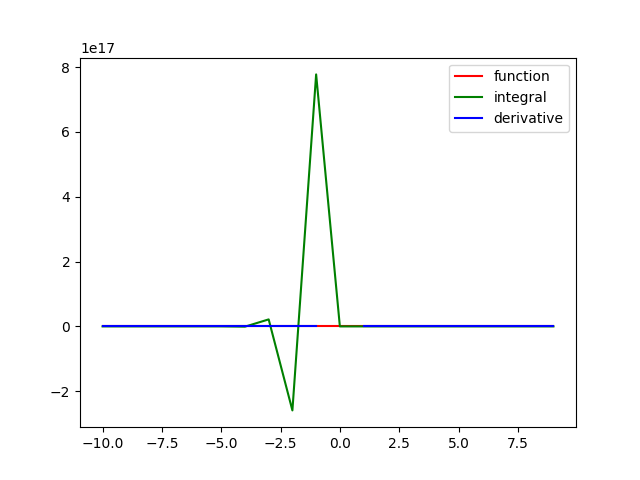
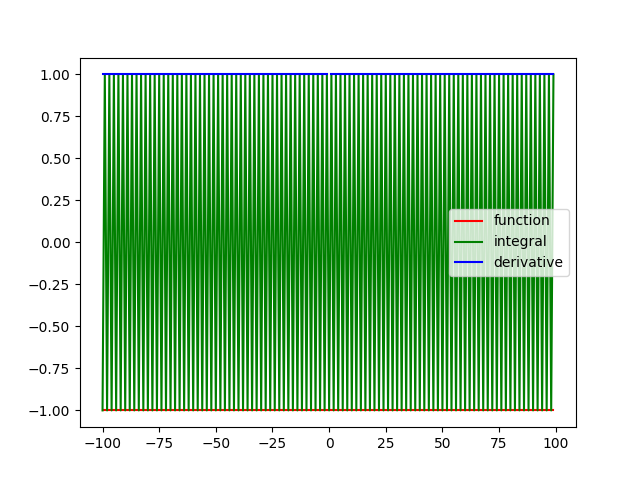
renamed spinboxes, fixed slider_h and spinbox_h value

diff --git a/graphs/desktop/main.py b/graphs/desktop/main.py
@@ -85,7 +85,7 @@ class MainWindow(QMainWindow):
         self.slider_c.setValue(int(self.function_params.c * 10))
         self.slider_a.setValue(int(self.function_params.a * 10))
         self.slider_b.setValue(int(self.function_params.b * 10))
-        self.slider_h.setValue(int(self.function_params.h * 100))
+        self.slider_h.setValue(int(self.function_params.h * 110))
 
         self.power_function_radio_button.toggled.connect(self.draw_graph)
         self.exponential_function_radio_button.toggled.connect(self.draw_graph)
@@ -101,25 +101,25 @@ class MainWindow(QMainWindow):
         self.slider_b.valueChanged.connect(lambda: self.change_slider('b', self.slider_b.value()))
         self.slider_h.valueChanged.connect(lambda: self.change_slider('h', self.slider_h.value()))
 
-        self.n_spin_box.valueChanged.connect(lambda: self.change_spin_box('n', self.n_spin_box.value()))
-        self.c_spin_box.valueChanged.connect(lambda: self.change_spin_box('c', self.c_spin_box.value()))
-        self.a_spin_box.valueChanged.connect(lambda: self.change_spin_box('a', self.a_spin_box.value()))
-        self.b_spin_box.valueChanged.connect(lambda: self.change_spin_box('b', self.b_spin_box.value()))
-        self.h_spin_box.valueChanged.connect(lambda: self.change_spin_box('h', self.h_spin_box.value()))
+        self.spin_box_n.valueChanged.connect(lambda: self.change_spin_box('n', self.spin_box_n.value()))
+        self.spin_box_c.valueChanged.connect(lambda: self.change_spin_box('c', self.spin_box_c.value()))
+        self.spin_box_a.valueChanged.connect(lambda: self.change_spin_box('a', self.spin_box_a.value()))
+        self.spin_box_b.valueChanged.connect(lambda: self.change_spin_box('b', self.spin_box_b.value()))
+        self.spin_box_h.valueChanged.connect(lambda: self.change_spin_box('h', self.spin_box_h.value()))
 
         self.draw_graph()
 
     def change_slider(self, name, value):
         if name == 'n':
-            self.n_spin_box.setValue(value / 10)
+            self.spin_box_n.setValue(value / 10)
         if name == 'c':
-            self.c_spin_box.setValue(value / 10)
+            self.spin_box_c.setValue(value / 10)
         if name == 'a':
-            self.a_spin_box.setValue(value / 10)
+            self.spin_box_a.setValue(value / 10)
         if name == 'b':
-            self.b_spin_box.setValue(value / 10)
+            self.spin_box_b.setValue(value / 10)
         if name == 'h':
-            self.h_spin_box.setValue(value / 10)
+            self.spin_box_h.setValue(value / 110)
         self.draw_graph()
 
     def change_spin_box(self, name, value):
@@ -137,18 +137,19 @@ class MainWindow(QMainWindow):
         if name == 'b':
             self.slider_b.setValue(int(new_value))
         if name == 'h':
-            if value > 11:
+            new_value *= 11
+            if (value * 11) > 110:
                 new_value = 110
             self.slider_h.setValue(int(new_value))
         self.draw_graph()
 
     def draw_graph(self):
         self.function_params.type = 0 if self.power_function_radio_button.isChecked() else 1
-        self.function_params.n = float(self.n_spin_box.value())
-        self.function_params.c = float(self.c_spin_box.value())
-        self.function_params.a = float(self.a_spin_box.value())
-        self.function_params.b = float(self.b_spin_box.value())
-        self.function_params.h = float(self.h_spin_box.value())
+        self.function_params.n = float(self.spin_box_n.value())
+        self.function_params.c = float(self.spin_box_c.value())
+        self.function_params.a = float(self.spin_box_a.value())
+        self.function_params.b = float(self.spin_box_b.value())
+        self.function_params.h = float(self.spin_box_h.value())
 
         self.graph_type.draw_points = self.points_check_box.isChecked()
         self.graph_type.draw_function = self.function_check_box.isChecked()
